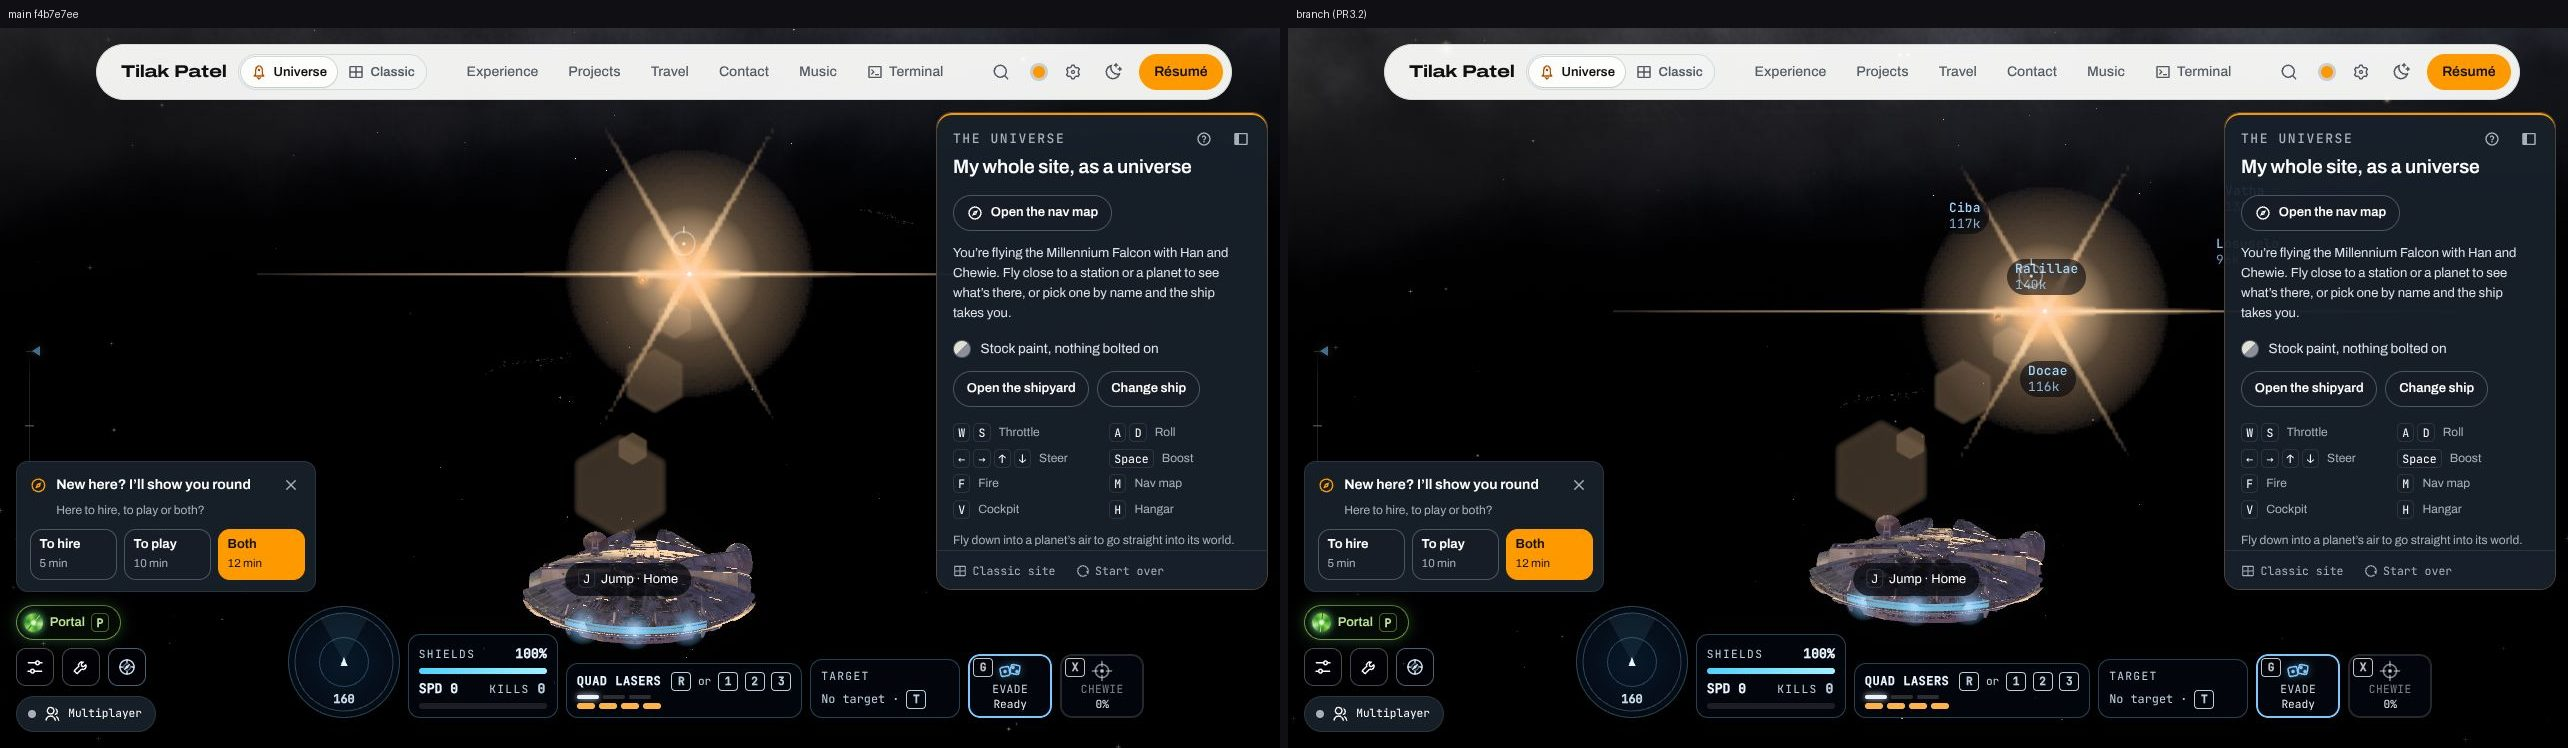
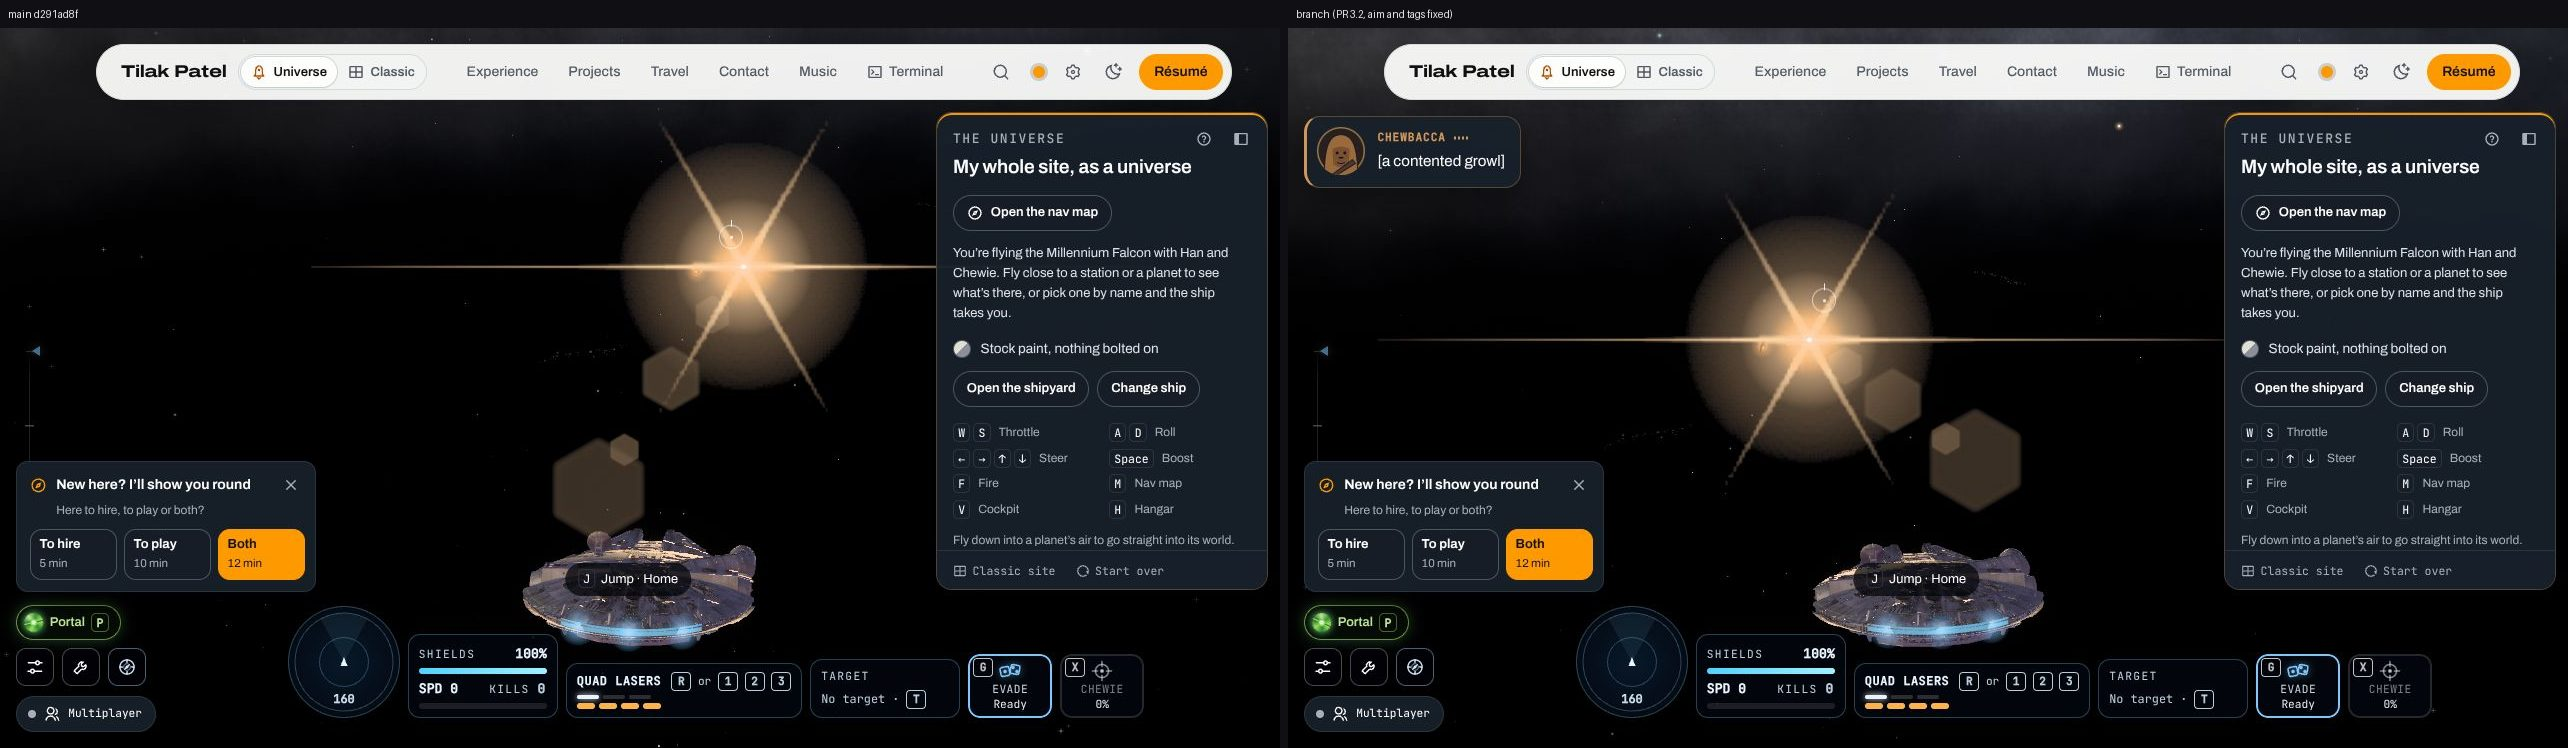
Lane 3 PR 3.2: hand-made places win the aim; no far names on the home sky
The aim takes a hand-made place in its cone over any generated one, and
only with none there the nearest generated star in it, so from home J
goes to Home, never a generated place 100,000 off. A generated place is
named by the nose only within 45,000 ship-lengths as its tag counts it
(about 11,700 map units); the gone-to, aimed, picked and here are named
at any distance. The three home skies taken again beside main at
d291ad8f: the same tags and draw lists, Jump · Home from the first.

Claude-Session: https://claude.ai/code/session_01HwRixPyqXF9qC5j9QBq3vy

diff --git a/src/components/universe/places/scenePlaces.test.js b/src/components/universe/places/scenePlaces.test.js
@@ -6,6 +6,7 @@ import { aimTargets } from '../aim';
 import { destinationById } from '../nav';
 import { UNIVERSE, fullSector, moonAt, sectorJob, thingRow, universeOf } from '../../expanse/shared/gen';
 import { universeBudget } from '../budget';
+import { LENGTH } from '../scale';
 import { resolvePlace } from './resolve';
 import { followPark, parkPlace } from './park';
 import { hereZone } from './around';
@@ -348,10 +349,24 @@ describe('the scene’s generated places', () => {
       expect(pt).not.toBeNull();
       expect(p.pick(pt.x, pt.y, { tanHalf: tan17, height: 720 })).toBe(row.id);
     });
-    it('names no more than the tier table says, and fewer at a lower quality step', () => {
-      // (a nose on the busiest way from a ship out among the things: a field of them in its cone)
+    it('names nothing by the nose past 45,000 ship-lengths: the home sky has no field of far names', () => {
       const at = thingRow(s, 40).at;
-      const ship = { ...spawn(null), x: at[0] + 5000, y: at[1], z: at[2], speed: 0 };
+      const far = 45000 * LENGTH + 20000;
+      const ship = { ...spawn(null), x: at[0] + far, y: at[1], z: at[2], speed: 0 };
+      const m = make({ device: { tier: 'mid' } });
+      m.tick({ ...ship, heading: headingTo(-1, 0) }, { nose: [-1, 0, 0] });
+      const rows = m.p.around();
+      const named = m.shown.at(-1);
+      for (const t of named) {
+        const r = rows.find((x) => x.id === t.id);
+        expect(Math.max(0, Math.hypot(r.at[0] - ship.x, r.at[1] - ship.y, r.at[2] - ship.z) - (r.reach ?? 0))).toBeLessThanOrEqual(45000 * LENGTH);
+      }
+    });
+    it('names no more than the tier table says, and fewer at a lower quality step', () => {
+      // (a nose on the busiest way from a ship in the fullest system: a field of places in its cone)
+      const sys = s.systems.reduce((a, b) => (b.planets.length + b.planets.reduce((n, p) => n + p.moonList.length, 0) > a.planets.length + a.planets.reduce((n, p) => n + p.moonList.length, 0) ? b : a));
+      const at = sys.at;
+      const ship = { ...spawn(null), x: at[0] + 3000, y: at[1], z: at[2], speed: 0 };
       const probe = make();
       probe.tick(ship);
       const rows = probe.p.around();
@@ -360,7 +375,9 @@ describe('the scene’s generated places', () => {
         const l = Math.hypot(...d);
         return d.map((x) => x / l);
       };
-      const inCone = (n) => rows.filter((r) => way(r).reduce((a, x, i) => a + x * n[i], 0) > Math.cos(0.14)).length;
+      // (on the nose and within 45,000 ship-lengths, past its reach: what can be named)
+      const inRange = (r) => Math.max(0, Math.hypot(r.at[0] - ship.x, r.at[1] - ship.y, r.at[2] - ship.z) - (r.reach ?? 0)) <= 45000 * LENGTH;
+      const inCone = (n) => rows.filter((r) => inRange(r) && way(r).reduce((a, x, i) => a + x * n[i], 0) > Math.cos(0.14)).length;
       const nose = rows.map(way).reduce((best, n) => (inCone(n) > inCone(best) ? n : best));
       expect(inCone(nose)).toBeGreaterThan(6);
       const heading = headingTo(nose[0], nose[2]);

diff --git a/src/components/universe/places/scenePlaces.js b/src/components/universe/places/scenePlaces.js
@@ -25,8 +25,9 @@
 // is null when there's nothing there).
 // The names: tags (a thunk, the scene's tag box) shows at most budget.tags
 // of them, the gone-to, aimed and picked places first, then the one it's at,
-// then those near the nose (pick.js's tagsFor), none while held or not
-// flying. frame() is the scene's { w, h }; onPick(id) is a tag's click.
+// then those near the nose within 45,000 ship-lengths (pick.js's tagsFor),
+// none while held or not flying. frame() is the scene's { w, h }; onPick(id)
+// is a tag's click.
 
 import * as THREE from 'three';
 import { parseSpaceId } from '../../../lib/space/address.js';
@@ -41,6 +42,7 @@ import { dockState } from './dock';
 import { atTime, canonicalPlace } from './ids';
 import { followPark, parkPlace } from './park';
 import { PICK, pickPlace, tagsFor } from './pick';
+import { LENGTH } from '../scale';
 import { createPlaceTags } from './placeTags';
 import { resolvePlace } from './resolve';
 import { createStationLook } from './stationLook';
@@ -86,6 +88,9 @@ export function createScenePlaces({ group, universe = UNIVERSE, expanse, workers
   let tagBox = null;
   let tagView = null;
   const pt = { x: 0, y: 0, z: 0 };
+  // (a place by the nose is named only within 45,000 as the tags count it, in ship-lengths:
+  // about 11,700 map units, so the home sky has no field of far names)
+  const TAG_FAR = 45000 * LENGTH;
   // the tag view, made on the box the scene has now (a page can swap it)
   const tagsNow = () => {
     const box = tags() ?? null;
@@ -101,7 +106,7 @@ export function createScenePlaces({ group, universe = UNIVERSE, expanse, workers
     if (!view) return;
     if (!ship) return view.show([], frame());
     const list = [];
-    for (const r of tagsFor(rows, { ship, nose: nose ?? [0, 0, -1], focus, here, max: budget.tags, cone: NAME_CONE })) {
+    for (const r of tagsFor(rows, { ship, nose: nose ?? [0, 0, -1], focus, here, max: budget.tags, cone: NAME_CONE, far: TAG_FAR })) {
       const p = toScreen(r.at[0], r.at[1], r.at[2], pt);
       if (!(p.z > PICK.near)) continue; // (behind the camera, or at it)
       list.push({ id: r.id, name: r.name, dist: Math.max(0, Math.hypot(ship.x - r.at[0], ship.y - r.at[1], ship.z - r.at[2]) - (r.reach ?? 0)), x: p.x, y: p.y });

diff --git a/src/components/universe/aim.js b/src/components/universe/aim.js
@@ -15,7 +15,10 @@
 //   the nose within the cone (the galaxy's starAhead), of those far enough
 //   off to be stars (past farStars.js's realAt: one nearer is somewhere to
 //   fly to); `keep`, the one it had, is kept a little longer, so the aim
-//   doesn't flick between two close ones
+//   doesn't flick between two close ones. A hand-made place in the cone
+//   always wins: a generated target (gen: true, lane 3's) is aimed at only
+//   with none in it, and then the nearest of them, `keep` while it's in the
+//   cone (the hand-made worlds stay one jump away)
 // jumpPhase(jump, { aligned, age, input }) → 'align' | 'spool' | 'cancel'
 // nameShows({ k, station, picked, viewAll, onFoot, noseDot }) → whether a
 //   place's name shows: all of them with the whole map in view (or no
@@ -60,9 +63,39 @@ export const aimTargets = (sector, at) => {
 const dirs = [];
 const pool = [];
 const realArg = { reach: 0 }; // (realAt's question, kept)
+const nl = (v) => Math.hypot(v[0], v[1], v[2]) || 1;
 export function aimFrom(from, nose, targets, keep = null) {
+  const made = handMade(from, nose, targets, keep);
+  if (made) return made;
+  // (a generated one: the nearest in the cone, the one it had while it's in it)
+  const cos = Math.cos(AIM_CONE);
+  const len = nl(nose);
+  let best = null;
+  let bestL = Infinity;
+  for (const t of targets) {
+    if (!t.gen) continue;
+    const dx = t.at[0] - from[0];
+    const dy = t.at[1] - from[1];
+    const dz = t.at[2] - from[2];
+    const l = Math.hypot(dx, dy, dz) || 1;
+    const c = (dx * nose[0] + dy * nose[1] + dz * nose[2]) / (l * len);
+    if (c < cos) continue;
+    if (t.reach != null) {
+      realArg.reach = t.reach;
+      if (l < realAt(realArg)) continue;
+    }
+    const score = t.id === keep ? -1 : l;
+    if (score < bestL) {
+      bestL = score;
+      best = { id: t.id, angle: Math.acos(Math.min(1, c)) };
+    }
+  }
+  return best;
+}
+function handMade(from, nose, targets, keep) {
   let n = 0;
   for (const t of targets) {
+    if (t.gen) continue;
     const dx = t.at[0] - from[0];
     const dy = t.at[1] - from[1];
     const dz = t.at[2] - from[2];

diff --git a/src/components/universe/places/pick.js b/src/components/universe/places/pick.js
@@ -20,10 +20,11 @@
 //   pixels, and its depth (scene.js's toScreen, over map-frame points). A
 //   row's radius on screen is reach / (z · tanHalf) · height / 2. A row's
 //   `also` points ([{ at, reach }], a system's companions) pick it as its own.
-// tagsFor(rows, { ship, nose, focus = [], here = null, max, cone }) → Row[],
+// tagsFor(rows, { ship, nose, focus = [], here = null, max, cone, far }) → Row[],
 //   each once, at most max: the rows whose ids are in focus, in its order;
 //   the row whose id is here; then those within cone (radians) of the nose,
-//   ahead of the ship, nearest first (from the ship, past their reach). An
+//   ahead of the ship and within far of it, nearest first (from the ship,
+//   past their reach: a field of far names is never shown unasked). An
 //   id with no row, or a null, is skipped. ship: { x, y, z }; nose: [x, y,
 //   z], any length; no cone (it has no default) names nothing by the nose.
 
@@ -50,7 +51,7 @@ export function pickPlace(rows, project, px, py, { tanHalf, height }) {
   return best;
 }
 
-export function tagsFor(rows, { ship, nose, focus = [], here = null, max, cone }) {
+export function tagsFor(rows, { ship, nose, focus = [], here = null, max, cone, far = Infinity }) {
   const room = Math.max(0, Math.floor(max ?? 0));
   if (room === 0) return [];
   const byId = new Map();
@@ -80,6 +81,7 @@ export function tagsFor(rows, { ship, nose, focus = [], here = null, max, cone }
     const l = Math.hypot(dx, dy, dz);
     if (l === 0 || (dx * nose[0] + dy * nose[1] + dz * nose[2]) / (l * nl) <= cos) continue;
     const d = Math.max(0, l - (row.reach ?? 0));
+    if (d > far) continue;
     if (near.length === left && d >= near[left - 1].d) continue;
     let i = Math.min(near.length, left - 1);
     while (i > 0 && near[i - 1].d > d) i--;

diff --git a/src/components/universe/aim.test.js b/src/components/universe/aim.test.js
@@ -46,6 +46,21 @@ describe('the aim', () => {
     expect(aimFrom([0, 0, 0], nose, targets, 'b')?.id).toBe('b');
   });
 
+  it('takes a hand-made place in the cone over any generated one, then the nearer generated one', () => {
+    const nose = [0, 0, -1];
+    const home = { id: 'home', at: [Math.tan(0.04) * 30000, 0, -30000] };
+    const far = { id: 'E:1,0:0', at: [0, 0, -120000], gen: true };
+    const near = { id: 'E:0,0:5', at: [Math.tan(0.03) * 60000, 0, -60000], gen: true };
+    // (the generated star is dead ahead and home is off to the side, but still in the cone)
+    expect(aimFrom([0, 0, 0], nose, [far, home])?.id).toBe('home');
+    expect(aimFrom([0, 0, 0], nose, [far, near, home])?.id).toBe('home');
+    // (no hand-made place in the cone: the nearer generated one, not the one nearer the nose)
+    expect(aimFrom([0, 0, 0], nose, [far, near])?.id).toBe('E:0,0:5');
+    // (one it had stays while it's in the cone)
+    expect(aimFrom([0, 0, 0], nose, [far, near], 'E:1,0:0')?.id).toBe('E:1,0:0');
+    expect(aimFrom([0, 0, 0], [0, 1, 0], [far, near])).toBe(null);
+  });
+
   it('never aims at where you are, nor the other sector', () => {
     expect(aimTargets('main', 'middleearth').some((t) => t.id === 'middleearth')).toBe(false);
     expect(aimTargets('main', null).some((t) => t.id === 'gazorpazorp')).toBe(false);

diff --git a/src/components/universe/places/pick.test.js b/src/components/universe/places/pick.test.js
@@ -35,6 +35,12 @@ describe('which places are named', () => {
     expect(pickPlace([sys], project, 640 + 300 + 2 * 160, 360, view)).toBeNull();
     expect(pickPlace([R('plain', [0, 0, 0], 5)], project, 640 + 300, 360, view)).toBeNull();
   });
+  it('names a place on the nose only within `far` (past its reach); what’s asked for at any distance', () => {
+    const cone = NAME_CONE;
+    expect(tagsFor(rows, { ship, nose, max: 6, cone, far: 3000 }).map((r) => r.id)).toEqual(['ahead']);
+    expect(tagsFor(rows, { ship, nose, focus: ['picked'], here: 'behind', max: 6, cone, far: 3000 }).map((r) => r.id)).toEqual(['picked', 'behind', 'ahead']);
+    expect(tagsFor([{ id: 'big', at: [0, 0, -5000], reach: 2500 }], { ship, nose, max: 6, cone, far: 3000 }).map((r) => r.id)).toEqual(['big']);
+  });
   it('names what you picked, then where you are, then what’s on the nose, nearest first', () => {
     const cone = NAME_CONE;
     expect(tagsFor(rows, { ship, nose, focus: ['picked'], max: 6, cone }).map((r) => r.id)).toEqual(['picked', 'ahead', 'aheadFar']);

diff --git a/src/components/universe/places/around.test.js b/src/components/universe/places/around.test.js
@@ -132,12 +132,12 @@ describe('what’s round the ship', () => {
     expect(orbitingPlace(ship(0), null, [planet, moon])).toBe('M');
     expect(orbitingPlace(ship(0), 'P', [planet, { ...moon, park: null }])).toBe('P');
   });
-  it('names the stars to aim at, nearest first, each by its card’s reach', () => {
+  it('names the stars to aim at, nearest first, each by its card’s reach, as generated', () => {
     const cam = s.systems[0].at;
     const stars = aimStars(sectors, cam, { max: 50 });
     expect(stars).toHaveLength(50);
     for (let i = 1; i < 50; i++) expect(len(stars[i].at, cam)).toBeGreaterThanOrEqual(len(stars[i - 1].at, cam));
-    expect(stars[0]).toEqual({ id: s.systems[0].id, at: s.systems[0].at, reach: s.systems[0].star.size * 2 });
+    expect(stars[0]).toEqual({ id: s.systems[0].id, at: s.systems[0].at, reach: s.systems[0].star.size * 2, gen: true });
   });
 });
 

diff --git a/src/components/universe/places/around.js b/src/components/universe/places/around.js
@@ -386,7 +386,7 @@ export function aimStars(sectors, cam, { max = 2000 } = {}) {
   const out = new Array(k);
   for (let j = 0; j < k; j++) {
     const sys = stars[nearest[j]];
-    out[j] = { id: sys.id, at: sys.at, reach: placeReach('system', sys) };
+    out[j] = { id: sys.id, at: sys.at, reach: placeReach('system', sys), gen: true };
   }
   stars.length = 0;
   return out;

diff --git a/docs/superpowers/evidence/endless-universe-lane-3/README.md b/docs/superpowers/evidence/endless-universe-lane-3/README.md
@@ -239,7 +239,7 @@ From home with the autopilot off and `post.sharpness` at 1, the ship at `[0, 300
 ![The third sky](pair-sky-3.jpg)
 ![Docked at Selaxselu Dock: main has no generated stations](pair-docked.jpg)
 
-The skies are the same apart from the generated places' name tags. `main` has no generated stations, so its fourth shot is the empty place where the branch’s Selaxselu Dock is, with its card and the Hangar.
+The three skies were taken again after the aim and tag fix, against `main` at `d291ad8f`. They are the same, tags and draw lists, apart from the jump on offer. From the first pose both say “Jump · Home”: a hand-made place in the aim cone always wins. From the other two, where no hand-made place is in the cone, the branch offers the nearest generated star in it, and `main` offers nothing. No generated place is named by the nose past 45,000 ship-lengths, as the tags count it (about 11,700 map units), so the home sky has no names. The draw lists match at all three poses apart from a random interceptor in `main`’s second. The docked pair is from `f4b7e7ee`: `main` has no generated stations, so its fourth shot is the empty place where the branch’s Selaxselu Dock is, with its card and the Hangar.
 
 ### The endless check, the whole route at mid
 
